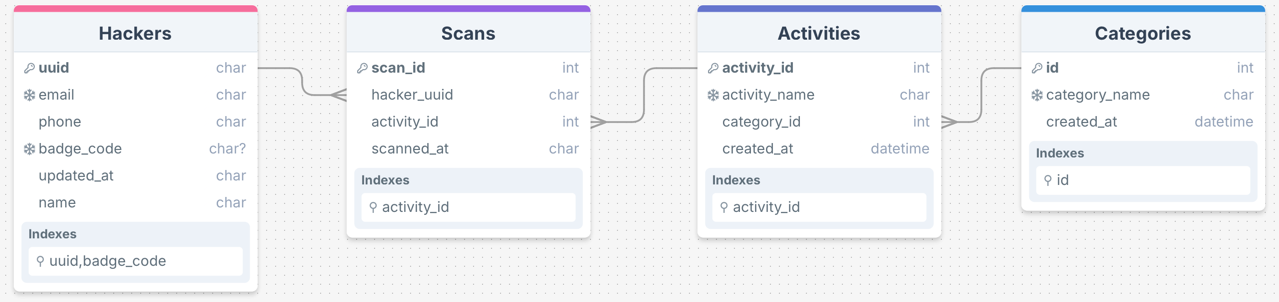
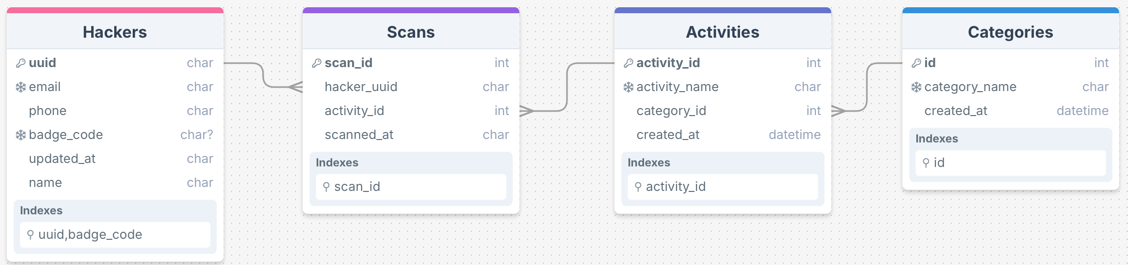
NOJIRA: - updated readme.md - added indexes

diff --git a/hackers/models/scans.py b/hackers/models/scans.py
@@ -8,7 +8,7 @@ from ..models.activities import Activities
 class Scans(Base):
     __tablename__ = 'scans'
 
-    scan_id = Column(Integer, primary_key=True, autoincrement=True)
+    scan_id = Column(Integer, primary_key=True, autoincrement=True, index=True)
     hacker_uuid= Column(String, ForeignKey("hackers.uuid"), nullable=False)
     activity_id = Column(Integer, ForeignKey("activities.activity_id"), nullable=False, index=True)
     scanned_at = Column(String)

diff --git a/hackers/models/activities.py b/hackers/models/activities.py
@@ -6,7 +6,7 @@ from ..models.categories import Categories
 class Activities(Base):
     __tablename__ = 'activities'
 
-    activity_id =  Column(Integer, primary_key=True)
+    activity_id =  Column(Integer, primary_key=True, index=True)
     activity_name = Column(String, unique=True)
     category_id = Column(Integer,  ForeignKey("categories.id"), nullable=False)
     created_at = Column(String)

diff --git a/hackers/models/categories.py b/hackers/models/categories.py
@@ -6,6 +6,6 @@ from ..database.base import Base
 class Categories(Base):
     __tablename__ = 'categories'
 
-    id = Column(Integer, primary_key=True, autoincrement=True)
+    id = Column(Integer, primary_key=True, autoincrement=True, index=True)
     category_name = Column(String)
     created_at = Column(String)

diff --git a/hackers/schema/mutation.py b/hackers/schema/mutation.py
@@ -8,7 +8,6 @@ from ..types.activities import Activities
 from ..types.categories import Categories
 from ..models.scans import Scans as ScansModel
 from datetime import datetime
-import json
 
 class CheckHackerIn(graphene.Mutation):
     class Arguments:

diff --git a/readme.md b/readme.md
@@ -7,7 +7,6 @@ Running it locally without Docker is  also possible. Create a virtual environmen
 ___
 ## Data
 All data is already seeded into the SQL server. This is seeded when the service begins running, and all data is wiped out when the service is closed.
-
 ![Database Diagram](img.png)
 ___
 ## Important Decisions
@@ -15,12 +14,13 @@ I had to make a couple of important decisions regarding the database schema and 
 - The main choice was using a type 4 uuid as the primary key for the hackers database rather than the email or the badge code. 
   - This was because I think the email and badge code can change. For example, maybe the user wants to update their email, or they lost their badge and need a new one. 
   - I think it makes more sense to bind scans to the actual user, rather than something that change as like email and badge code.
-- When updating the user, it makes sense that they do it from their account, and so `uuid` is passed as the parameter.
-- In other circumstances, it makes sense from the problem context that we want to use badge code instead. 
+- When running queries where we need an identify the user, I flip-flop between using the UUID and the badge code. This is based off what I think makes sense depending on the context. For example, when updating the user, it makes sense that they do it from their account, and so `uuid` is passed as the parameter. However, when querying for user information I chose to use the badge code to identify the user. This is because I am assuming that this endpoint is used for an organizer to scan someone's badge for their information, or for hackers to scan eachother's badges for their information (and also why it being null won't matter). I remember the year I went scanning the badges bought us to like a linktree page.
 - I am assuming that the hackers database starts off with all registered event attendees.
-  - When they come check in, they will be assigned a badge code. When they check out we will remove the badge code. It also makes sense for them to be able to get a new badge, in the event that they lost it. These are an extra set of endpoints.
-- The activities and categories are kept as reference tables. There is a tradeoff since we are adding scans much more than we are adding activities or categories, but I wanted to be safe since there was no gurantee for what type the activity name or category would come in.
+  - From the problem statement, it seems that users have pre-registered for the event with information like email and name.
+  - When they come check in, they will be assigned a badge code. When they check out we will remove the badge code. It also makes sense for them to be able to get a new badge, in the event that they lost it. These are an extra set of endpoints for this functionality.
+- The activities and categories are kept as reference tables. There is a tradeoff since we are adding scans much more than we are adding activities or categories, but I wanted to be safe since there was no guarantee for what type the activity name or category would come in.
   - Could also be better for renaming. For example, maybe we want to archive an activity from 2022 to add a new one in 2023 by changing the name, but still have it show up in user records. This way we have a easy way to change them.
+- For the scan data endpoint, another possibility was keeping track of the number of scans in the activity database. I decided against this as we scan much more than we will query number of scans, meaning that on each scan we are doing much more work as we have to update the count in the activity table as well.
 ___
 ## API
 ### All Users Endpoint
@@ -136,10 +136,10 @@ mutation {
   }
 }
 ```
-| Field | Type   | Required | Description                                                 |
-|-------|--------|----------|-------------------------------------------------------------|
-| uuid  | String | Yes      | The UUID of the user                                        |
-| data  | json   | Yes      | Can contain the name, email, and phone we want to update to |
+| Field | Type   | Required | Description                                                                            |
+|-------|--------|----------|----------------------------------------------------------------------------------------|
+| uuid  | String | Yes      | The UUID of the user                                                                   |
+| data  | json   | Yes      | Can contain the name, email, and phone we want to update to. All of these are optional |
 ```graphql
 # Response
 {
